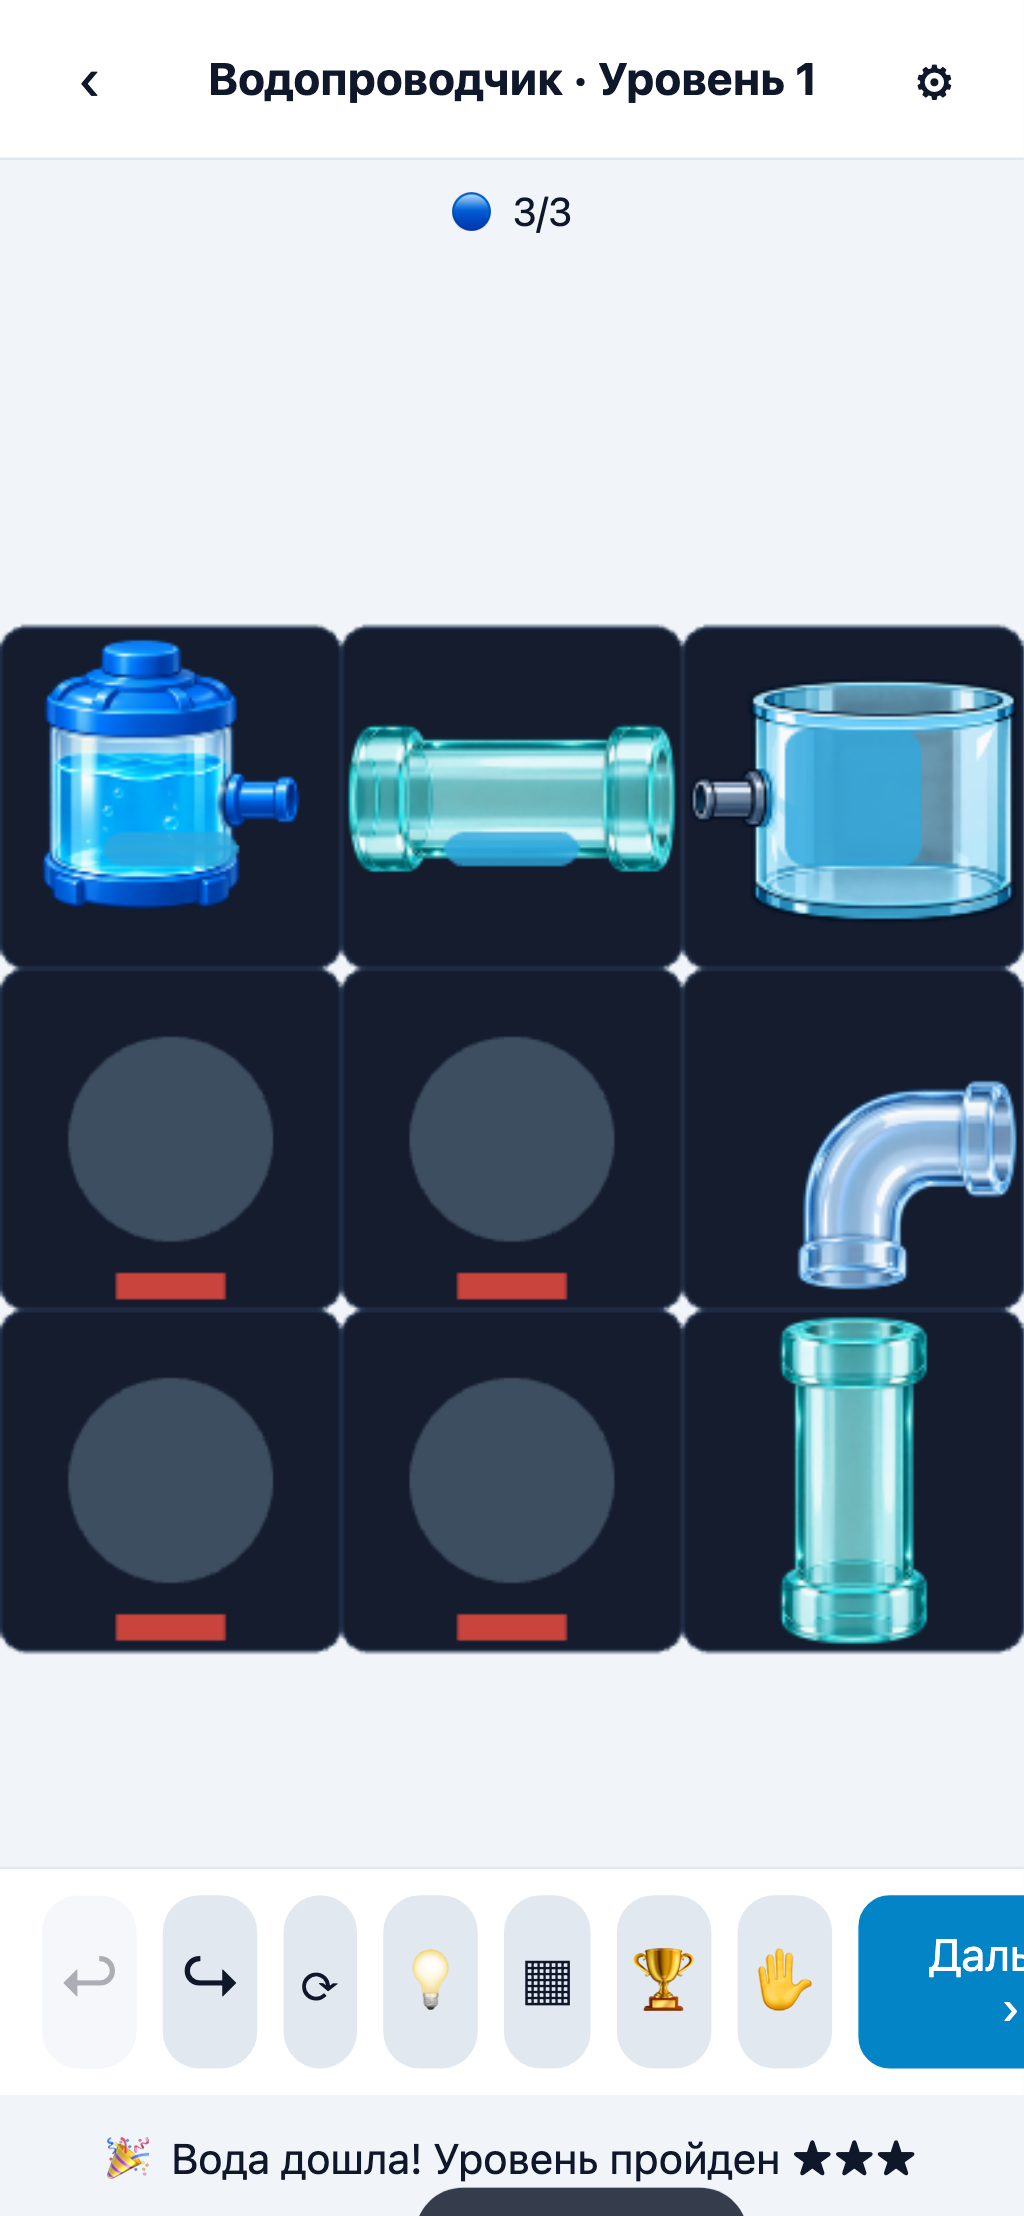
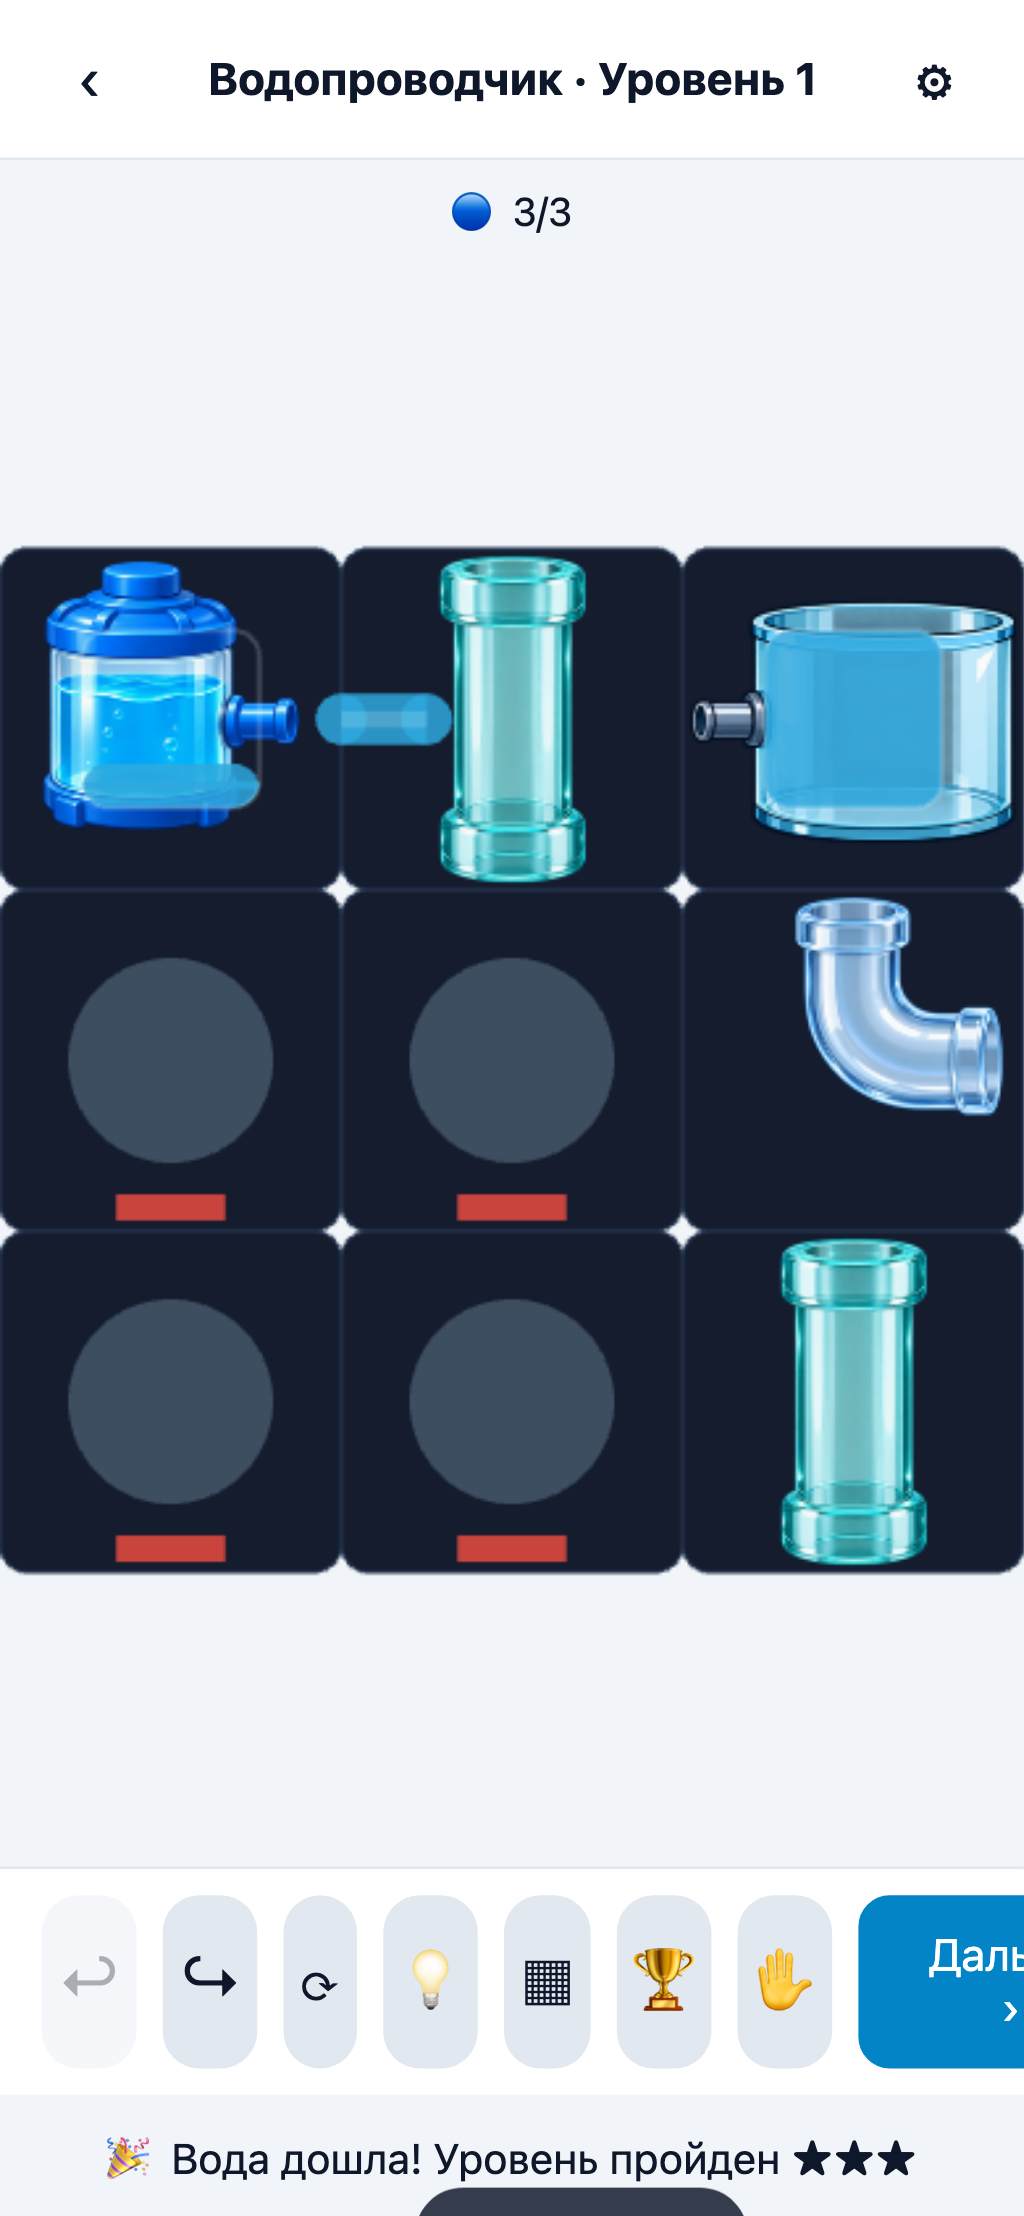
feat(plumber): render water inside pipe channel geometry (R2 P0)
Liquid no longer drawn as an axis-aligned square over the tile. New
presentation/channel.ts derives the internal channel per kind+rotation from
the same port layout as domain/model BASE_PORTS, so the fluid path always
coincides with the visible openings:

- channelGeometry/fillFrom/openPorts return centerline segments, port anchors
  and a partial fill ordered from the water's inlet side (cameFrom).
- scene draws a thick band along the path with round joints (corners/tees
  connect seamlessly) + inner highlight; source/receiver remain reservoirs
  (tanks, not pipes); valve closed -> no channel.
- sync() now receives cameFrom so fill direction matches flow.
- 48 new unit tests assert geometry<->ports equality for every kind x rotation,
  edge-midpoint anchors, vertical/horizontal straight, monotonic fill, zero.

Evidence regenerated: plumber-running/win desktop+mobile. Unit 115/115,
e2e plumber 6/6, typecheck clean.

diff --git a/src/games/plumber/presentation/scene.ts b/src/games/plumber/presentation/scene.ts
@@ -1,6 +1,7 @@
 // Plumber Phaser scene: pure presentation of RuntimeState. No game logic here.
 import * as Phaser from 'phaser';
 import { PIPE_CAPACITY, portsOf, type LevelDefinition } from '../domain/model';
+import { channelGeometry, fillFrom, type Side } from './channel';
 
 export const TILE = 256;
 
@@ -46,6 +47,7 @@ export class PlumberScene extends Phaser.Scene {
   private valves: boolean[] = [];
   private colors: Array<string | null> = [];
   private fractions: number[] = [];
+  private cameFrom: Array<Side | null> = [];
   private leak = -1;
   private hint = -1;
 
@@ -141,10 +143,11 @@ export class PlumberScene extends Phaser.Scene {
   }
 
   /** Full state sync from model (rots, kinds, valves, water per cell, extras). */
-  sync(rots: number[], _water: number[], colors: Array<string | null>, fractions: number[], leak: number, hint: number, animate: number | null, kinds?: string[], valves?: boolean[]): void {
+  sync(rots: number[], _water: number[], colors: Array<string | null>, fractions: number[], leak: number, hint: number, animate: number | null, kinds?: string[], valves?: boolean[], cameFrom?: Array<Side | null>): void {
     this.rots = [...rots];
     if (kinds) this.kinds = [...kinds];
     if (valves) this.valves = [...valves];
+    if (cameFrom) this.cameFrom = [...cameFrom];
     void _water;
     this.colors = [...colors];
     this.fractions = [...fractions];
@@ -204,26 +207,77 @@ export class PlumberScene extends Phaser.Scene {
     g.clear();
     const { x, y } = this.cellXY(i);
     const frac = this.fractions[i] ?? 0;
-    if (frac <= 0) {
-      if (i === this.leak) {
-        g.fillStyle(0xe05a4e, 0.9);
-        g.fillCircle(x + this.cell / 2, y + this.cell / 2, this.cell * 0.1);
-      }
-      if (i === this.hint) {
-        g.lineStyle(3, 0xf2c230, 1);
-        g.strokeRoundedRect(x + 3, y + 3, this.cell - 6, this.cell - 6, 8);
-      }
-      return;
-    }
+    const kind = this.kindOf(i);
     const color = WATER_COLORS[this.colors[i] ?? 'blue'] ?? 0x2fa8de;
-    const inset = this.cell * 0.3;
-    const wdt = this.cell - inset * 2;
-    const hgt = (this.cell - inset * 2) * Math.min(1, frac);
-    g.fillStyle(color, 0.8);
-    g.fillRoundedRect(x + inset, y + this.cell - inset - hgt, wdt, hgt, Math.min(8, wdt * 0.2));
+
+    if (i === this.leak && frac <= 0) {
+      g.fillStyle(0xe05a4e, 0.9);
+      g.fillCircle(x + this.cell / 2, y + this.cell / 2, this.cell * 0.1);
+    }
+
+    if (frac > 0) {
+      if (kind === 'source' || kind === 'receiver') {
+        // Tanks are reservoirs, not pipes: fill a bounded reservoir body.
+        const inset = this.cell * 0.24;
+        const wdt = this.cell - inset * 2;
+        const bodyH = this.cell - inset * 2;
+        const hgt = bodyH * Math.min(1, frac);
+        g.fillStyle(color, 0.85);
+        g.fillRoundedRect(x + inset, y + this.cell - inset - hgt, wdt, hgt, Math.min(10, wdt * 0.18));
+        g.lineStyle(2, 0xffffff, 0.18);
+        g.strokeRoundedRect(x + inset, y + this.cell - inset - bodyH, wdt, bodyH, Math.min(10, wdt * 0.18));
+      } else {
+        this.drawChannelWater(g, i, x, y, kind, color, frac);
+      }
+    }
+
     if (i === this.hint) {
       g.lineStyle(3, 0xf2c230, 1);
       g.strokeRoundedRect(x + 3, y + 3, this.cell - 6, this.cell - 6, 8);
+    }
+  }
+
+  /** Liquid follows the internal channel of the pipe, from the inlet side. */
+  private drawChannelWater(g: Phaser.GameObjects.Graphics, i: number, x: number, y: number, kind: string, color: number, frac: number): void {
+    const rot = this.rots[i] ?? 0;
+    const open = kind !== 'valve' || (this.valves[i] ?? true);
+    const geo = channelGeometry(kind as never, rot, open);
+    if (geo.segments.length === 0) return;
+    const filled = fillFrom(geo, this.cameFrom[i] ?? null, frac);
+    if (filled.length === 0) return;
+    const c = this.cell;
+    const width = Math.max(3, geo.halfWidth * 2 * c);
+    const px = (p: { x: number; y: number }) => ({ x: x + p.x * c, y: y + p.y * c });
+    // Outer wet band.
+    g.lineStyle(width, color, 0.85);
+    for (const s of filled) {
+      const a = px(s.a);
+      const b = px(s.b);
+      g.beginPath();
+      g.moveTo(a.x, a.y);
+      g.lineTo(b.x, b.y);
+      g.strokePath();
+    }
+    // Round joints so corners/tees connect seamlessly.
+    g.fillStyle(color, 0.85);
+    for (const s of filled) {
+      const a = px(s.a);
+      g.fillCircle(a.x, a.y, width / 2);
+    }
+    const last = filled[filled.length - 1];
+    if (last) {
+      const b = px(last.b);
+      g.fillCircle(b.x, b.y, width / 2);
+    }
+    // Inner highlight (reads as liquid depth, no topology change).
+    g.lineStyle(Math.max(1, width * 0.32), 0xffffff, 0.16);
+    for (const s of filled) {
+      const a = px(s.a);
+      const b = px(s.b);
+      g.beginPath();
+      g.moveTo(a.x, a.y);
+      g.lineTo(b.x, b.y);
+      g.strokePath();
     }
   }
 

diff --git a/src/games/plumber/presentation/channel.ts b/src/games/plumber/presentation/channel.ts
@@ -1,0 +1,131 @@
+// Internal water channel geometry per pipe kind, in normalized tile space
+// [0..1]x[0..1], matching the port layout in domain/model BASE_PORTS.
+// Rotations rotate the geometry about the tile center exactly like rotSide(),
+// so the liquid path always coincides with the visible ports.
+import type { PipeKind } from '../domain/model';
+
+export type Side = 'top' | 'right' | 'bottom' | 'left';
+export interface Point { x: number; y: number }
+export interface Segment { a: Point; b: Point }
+
+// Base (rot=0) port midpoints per side.
+const PORT_MID: Record<Side, Point> = {
+  top: { x: 0.5, y: 0 },
+  right: { x: 1, y: 0.5 },
+  bottom: { x: 0.5, y: 1 },
+  left: { x: 0, y: 0.5 },
+};
+const CENTER: Point = { x: 0.5, y: 0.5 };
+
+// rot=0 arms per kind as side lists (matches BASE_PORTS).
+const BASE_ARMS: Partial<Record<PipeKind, Side[]>> = {
+  straight: ['top', 'bottom'],
+  elbow: ['top', 'right'],
+  t: ['top', 'right', 'left'],
+  cross: ['top', 'right', 'bottom', 'left'],
+  cap: ['top'],
+  valve: ['top', 'bottom'],
+  filter: ['top', 'bottom'],
+  mixer: ['top', 'right', 'bottom', 'left'],
+  distributor: ['top', 'right', 'left'],
+  source: ['right'],
+  receiver: ['left'],
+};
+
+/** Clockwise rotation of a normalized point about (0.5,0.5), `rot` quarter turns. */
+function rotate(p: Point, rot: number): Point {
+  let { x, y } = p;
+  for (let i = 0; i < ((rot % 4) + 4) % 4; i++) {
+    const nx = 1 - y;
+    const ny = x;
+    x = nx;
+    y = ny;
+  }
+  return { x, y };
+}
+
+export interface ChannelGeometry {
+  /** Channel centerline segments (normalized), already rotated. */
+  segments: Segment[];
+  /** Half-width of the liquid band, normalized to the tile. */
+  halfWidth: number;
+  /** Port anchors (edge midpoints actually open), normalized. */
+  ports: Array<{ side: Side; p: Point }>;
+  /** Source/receiver are tanks, not channels — filled as a reservoir. */
+  tank: boolean;
+}
+
+const HALF_WIDTH = 0.075;
+
+const SIDE_ORDER: Side[] = ['top', 'right', 'bottom', 'left'];
+function rotateSide(side: Side, rot: number): Side {
+  const i = SIDE_ORDER.indexOf(side);
+  return SIDE_ORDER[(((i + rot) % 4) + 4) % 4];
+}
+
+export function portMid(side: Side): Point {
+  return { ...PORT_MID[side] };
+}
+
+/** Rotated open ports for a kind (valve closed => none). */
+export function openPorts(kind: PipeKind, rot: number, valveOpen = true): Array<{ side: Side; p: Point }> {
+  if (kind === 'valve' && !valveOpen) return [];
+  const arms = BASE_ARMS[kind] ?? [];
+  return arms.map((side) => ({ side: rotateSide(side, rot), p: rotate(PORT_MID[side], rot) }));
+}
+
+export function channelGeometry(kind: PipeKind, rot: number, valveOpen = true): ChannelGeometry {
+  const ports = openPorts(kind, rot, valveOpen);
+  const tank = kind === 'source' || kind === 'receiver';
+  const segments: Segment[] = [];
+  const c = rotate(CENTER, rot);
+  for (const { p } of ports) {
+    segments.push({ a: c, b: p });
+  }
+  return { segments, halfWidth: HALF_WIDTH, ports, tank };
+}
+
+/**
+ * Order + partially fill the channel from the inlet side.
+ * Returns a draw list: full segments plus, for the last one, a fraction of it.
+ * `inlet` is the side water arrived from (or null → pick the longest arm).
+ */
+export interface FilledSegment { a: Point; b: Point }
+export function fillFrom(
+  geo: ChannelGeometry,
+  inlet: Side | null,
+  progress: number,
+): FilledSegment[] {
+  const frac = Math.max(0, Math.min(1, progress));
+  if (geo.segments.length === 0) return [];
+  // Determine the start point (near the inlet port).
+  const start: Point = inlet ? (geo.ports.find((p) => p.side === inlet)?.p ?? geo.segments[0].b) : geo.segments[0].b;
+  // For each segment, the far endpoint is the one farther from start.
+  const ordered = geo.segments
+    .map((s) => {
+      const da = dist(s.a, start);
+      const db = dist(s.b, start);
+      const nearIsA = da <= db;
+      return { near: nearIsA ? s.a : s.b, far: nearIsA ? s.b : s.a, farDist: Math.max(da, db) };
+    })
+    .sort((x, y) => x.farDist - y.farDist);
+  const lens = ordered.map((o) => dist(o.near, o.far));
+  const total = lens.reduce((a, b) => a + b, 0) || 1;
+  let budget = total * frac;
+  const out: FilledSegment[] = [];
+  for (let i = 0; i < ordered.length; i++) {
+    const { near, far } = ordered[i];
+    const len = lens[i];
+    const take = Math.min(len, budget);
+    budget -= take;
+    if (take <= 0.0001) continue;
+    const t = take / len;
+    out.push({ a: near, b: { x: near.x + (far.x - near.x) * t, y: near.y + (far.y - near.y) * t } });
+    if (budget <= 0) break;
+  }
+  return out;
+}
+
+function dist(a: Point, b: Point): number {
+  return Math.hypot(a.x - b.x, a.y - b.y);
+}

diff --git a/tests/unit/plumber-channel.test.ts b/tests/unit/plumber-channel.test.ts
@@ -1,0 +1,57 @@
+import { describe, it, expect } from 'vitest';
+import { portsOf, type CellDef, type PipeKind } from '../../src/games/plumber/domain/model';
+import { channelGeometry, openPorts, fillFrom } from '../../src/games/plumber/presentation/channel';
+
+const KINDS: PipeKind[] = ['straight', 'elbow', 't', 'cross', 'cap', 'valve', 'filter', 'mixer', 'distributor', 'source', 'receiver'];
+const SIDES = ['top', 'right', 'bottom', 'left'] as const;
+
+describe('channel geometry matches model ports', () => {
+  for (const kind of KINDS) {
+    for (let rot = 0; rot < 4; rot++) {
+      it(`${kind} rot=${rot}: open ports coincide with channel ports`, () => {
+        const modelPorts = portsOf({ kind, rot } as CellDef, rot);
+        const geo = channelGeometry(kind, rot, true);
+        const modelOpen = SIDES.filter((s) => modelPorts[s]).sort();
+        const geoOpen = geo.ports.map((p) => p.side).sort();
+        expect(geoOpen).toEqual(modelOpen);
+        // Every port anchor sits on the corresponding tile edge midpoint.
+        for (const { side, p } of geo.ports) {
+          const onEdge =
+            (side === 'top' && Math.abs(p.y) < 1e-6) ||
+            (side === 'bottom' && Math.abs(p.y - 1) < 1e-6) ||
+            (side === 'left' && Math.abs(p.x) < 1e-6) ||
+            (side === 'right' && Math.abs(p.x - 1) < 1e-6);
+          expect(onEdge).toBe(true);
+          const mid = side === 'top' || side === 'bottom' ? p.x : p.y;
+          expect(Math.abs(mid - 0.5)).toBeLessThan(1e-6);
+        }
+      });
+    }
+  }
+
+  it('straight is vertical at rot=0 and horizontal at rot=1', () => {
+    const v = channelGeometry('straight', 0, true).segments;
+    expect(v.every((s) => Math.abs(s.a.x - s.b.x) < 1e-6)).toBe(true);
+    const h = channelGeometry('straight', 1, true).segments;
+    expect(h.every((s) => Math.abs(s.a.y - s.b.y) < 1e-6)).toBe(true);
+  });
+
+  it('closed valve has no channel', () => {
+    expect(openPorts('valve', 0, false)).toEqual([]);
+    expect(channelGeometry('valve', 0, false).segments).toEqual([]);
+  });
+
+  it('fill advances monotonically along the channel from the inlet', () => {
+    const geo = channelGeometry('elbow', 0, true); // inlet top -> corner -> right
+    const tenth = fillFrom(geo, 'top', 0.1);
+    const full = fillFrom(geo, 'top', 1);
+    const len = (segs: { a: { x: number; y: number }; b: { x: number; y: number } }[]) =>
+      segs.reduce((t, s) => t + Math.hypot(s.b.x - s.a.x, s.b.y - s.a.y), 0);
+    expect(len(tenth)).toBeLessThan(len(full));
+    expect(len(full)).toBeGreaterThan(0.99);
+  });
+
+  it('zero progress draws nothing', () => {
+    expect(fillFrom(channelGeometry('cross', 0, true), 'left', 0)).toEqual([]);
+  });
+});

diff --git a/src/games/plumber/game.ts b/src/games/plumber/game.ts
@@ -723,7 +723,7 @@ export class PlumberGame implements GameHandle {
   private syncScene(animate: number | null): void {
     if (!this.scene) return;
     const kinds = this.state.rots.map((_, i) => kindAt(this.state, i));
-    this.scene.sync(this.state.rots, this.state.water, this.state.waterColor, this.fractions(), this.state.phase === 'FAILED' ? (this.state.errorCell ?? this.state.leakCell ?? -1) : -1, this.hintCell, animate, kinds, this.state.valves);
+    this.scene.sync(this.state.rots, this.state.water, this.state.waterColor, this.fractions(), this.state.phase === 'FAILED' ? (this.state.errorCell ?? this.state.leakCell ?? -1) : -1, this.hintCell, animate, kinds, this.state.valves, this.state.cameFrom);
   }
 
   private refreshChrome(): void {
